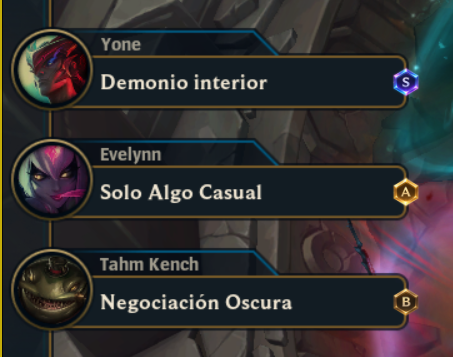
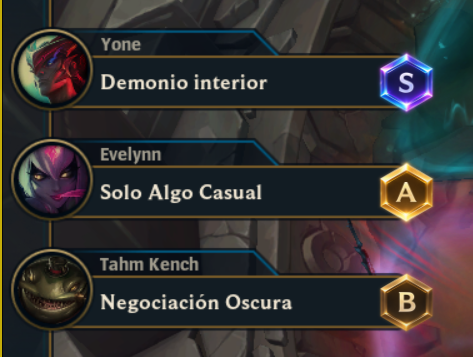
fix(*): fix bugs

diff --git a/tests/Aumentos.Tests/ArenaLegendaryTests.cs b/tests/Aumentos.Tests/ArenaLegendaryTests.cs
@@ -9,7 +9,7 @@ internal static class ArenaLegendaryTests
 {
     private static readonly string[] RellOffer = ["Flautas de Bandle", "Fuerza de la Naturaleza", "Convergencia de Zeke"];
 
-    internal static void Run(Ratings ratings, string assets, string? screenshot)
+    internal static void Run(Ratings ratings, string assets, string? screenshot, string? zyraScreenshot)
     {
         var rell = new GameContext(Mode.Arena, "Rell");
         var offer = new DetectionResult(true, new int?[3], RellOffer, [true, true, true]);
@@ -33,19 +33,39 @@ internal static class ArenaLegendaryTests
             "una carta ilegible conserva los tiers conocidos sin elegir la mejor de toda la oferta");
         CheckSharedChemtechTitle(ratings, assets);
 
+        var zyra = new GameContext(Mode.Arena, "Zyra");
+        var zyraOffer = offer with { Texts = ["Promesa sin Palabras", "Cinturón Cohete Hextech", "Perplejidad"] };
+        CheckZyraOffer(zyraOffer);
         if (screenshot is not null)
         {
-            var image = Diagnostics.OpenBitmap(screenshot);
+            CheckRellOffer(ratings, rell, ReadScreenshot(screenshot));
+            Console.WriteLine("Captura de Rell: Flautas de Bandle S recomendadas · Fuerza de la Naturaleza B · Convergencia de Zeke A.");
+        }
+        if (zyraScreenshot is not null)
+        {
+            CheckZyraOffer(ReadScreenshot(zyraScreenshot));
+            Console.WriteLine("Captura de Zyra: Promesa sin Palabras A · Cinturón Cohete Hextech A · Perplejidad A.");
+        }
+        Console.WriteLine("Tiers de objetos legendarios verificados con afinidad por campeón.");
+
+        DetectionResult ReadScreenshot(string path)
+        {
+            var image = Diagnostics.OpenBitmap(path);
             var layouts = new LayoutStore(Path.Combine(assets, "layouts.json"), "")
                 .Find(Mode.Arena, image.PixelWidth, image.PixelHeight);
             using var detector = new Detection(ratings, Path.Combine(assets, "tessdata"));
-            var read = detector.ReadPanel(image, new Int32Rect(0, 0, image.PixelWidth, image.PixelHeight),
-                layouts, Mode.Arena, previous: null);
-            Check(read is not null, "panel de objetos legendarios en la captura de Rell");
-            CheckRellOffer(ratings, rell, read!.Value.Result);
-            Console.WriteLine("Captura de Rell: Flautas de Bandle S recomendadas · Fuerza de la Naturaleza B · Convergencia de Zeke A.");
+            return detector.ReadPanel(image, new Int32Rect(0, 0, image.PixelWidth, image.PixelHeight),
+                layouts, Mode.Arena, previous: null)?.Result ??
+                throw new InvalidOperationException("No se encontró el panel de objetos legendarios en " + path);
         }
-        Console.WriteLine("Tiers de objetos legendarios verificados con afinidad por campeón.");
+
+        void CheckZyraOffer(DetectionResult read)
+        {
+            Check(ratings.Legendaries.Identify(read)?.Select(item => item?.Id).SequenceEqual([4016, 223152, 4015]) == true &&
+                ratings.Legendaries.ForOffer(zyra, read)?.Select(badge => badge?.Local).SequenceEqual(["A", "A", "A"]) == true &&
+                ratings.Prismatics.Identify(read) is null,
+                $"la oferta de Zyra incluye dos legendarios con IDs originales: {string.Join(" / ", read.Texts)}");
+        }
     }
 
     private static void CheckRellOffer(Ratings ratings, GameContext rell, DetectionResult offer)

diff --git a/src/Aumentos.App/ChampionSelectClient.cs b/src/Aumentos.App/ChampionSelectClient.cs
@@ -28,6 +28,9 @@ internal sealed record ChampionSelectSession(Mode Mode, ChampionSelection? Pick 
 internal sealed class ChampionSelectClient : IDisposable
 {
     private const string SelectionEndpoint = "/lol-champ-select/v1/session";
+    private const int ArenaTriosQueue = 1750;
+    private const int ArenaTrioSize = 3;
+    private const int ArenaTriosLobbySize = 18;
     private readonly X509Certificate2 root;
     private HttpClient? client;
     private string? install;
@@ -133,7 +136,7 @@ internal sealed class ChampionSelectClient : IDisposable
         {
             if (Number(queue, "id") == 2400 || TextIs(queue, "gameMode", "KIWI"))
                 return Mode.Caos;
-            if (Number(queue, "id") is 1700 or 1710 || TextIs(queue, "gameMode", "CHERRY"))
+            if (Number(queue, "id") is 1700 or 1710 or ArenaTriosQueue || TextIs(queue, "gameMode", "CHERRY"))
                 return Mode.Arena;
         }
         if (TextIs(data, "gameMode", "KIWI"))
@@ -209,6 +212,11 @@ internal sealed class ChampionSelectClient : IDisposable
         int localCell = Number(root, "localPlayerCellId");
         int localTeam = own is { } player ? ArenaTeamId(player) : -1;
         int teamSize = own is null ? 0 : 1;
+        var members = Elements(root, "myTeam").Where(member => member.ValueKind == JsonValueKind.Object).ToArray();
+        // Arena 3×6 can report the entire lobby as team 1. In that layout each trio occupies three consecutive cells.
+        bool flatTrios = Number(root, "queueId") == ArenaTriosQueue && members.Length == ArenaTriosLobbySize &&
+            members.All(member => ArenaTeamId(member) == localTeam) &&
+            members.Select(member => Number(member, "cellId")).ToHashSet().SetEquals(Enumerable.Range(0, ArenaTriosLobbySize));
         var actions = DraftActions(root).ToArray();
         var inProgressPicks = new Dictionary<int, int>();
         var completedPicks = new Dictionary<int, int>();
@@ -231,11 +239,13 @@ internal sealed class ChampionSelectClient : IDisposable
         var allySlots = new SortedDictionary<int, int?>();
         var unavailable = new HashSet<int>();
         var enemyCells = new HashSet<int>();
-        foreach (var ally in Elements(root, "myTeam"))
+        foreach (var ally in members)
         {
-            if (ally.ValueKind != JsonValueKind.Object || Number(ally, "cellId") is not (>= 0 and var cell) || cell == localCell)
+            if (Number(ally, "cellId") is not (>= 0 and var cell) || cell == localCell)
                 continue;
-            if (localTeam >= 0 && ArenaTeamId(ally) is >= 0 and var team && team != localTeam)
+            bool rival = flatTrios ? cell / ArenaTrioSize != localCell / ArenaTrioSize
+                : localTeam >= 0 && ArenaTeamId(ally) is >= 0 and var team && team != localTeam;
+            if (rival)
                 AddEnemy(ally);
             else if (own is not null)
             {

diff --git a/src/Aumentos.App/ArenaVoteOverlay.cs b/src/Aumentos.App/ArenaVoteOverlay.cs
@@ -12,9 +12,11 @@ internal sealed record ArenaVoteDisplay(Int32Rect Bounds, nint Target, ArenaVote
 
 internal sealed class ArenaVoteOverlay : Window
 {
+    private const double BadgeHeight = 44;
     private readonly Canvas layer = new() { ClipToBounds = true };
     private ArenaVoteDisplay? displayed;
     private double displayedDpi;
+    private int displayedTierSize;
     private nint handle;
 
     internal ArenaVoteOverlay()
@@ -42,7 +44,7 @@ internal sealed class ArenaVoteOverlay : Window
         };
     }
 
-    internal void Render(ArenaVoteDisplay? view)
+    internal void Render(ArenaVoteDisplay? view, int tierSizePercent = BuildSizePreference.Default)
     {
         if (view is null || view.Labels.Length == 0 || view.Bounds.Width <= 0 || view.Bounds.Height <= 0)
         {
@@ -55,7 +57,8 @@ internal sealed class ArenaVoteOverlay : Window
         // Vote rows are in screen pixels. WPF lays out the badges at the overlay's DPI.
         double dpi = VisualTreeHelper.GetDpi(layer).DpiScaleX;
         var bounds = view.Bounds;
-        if (IsVisible && Native.IsWindowVisible(handle) && displayedDpi == dpi && displayed is { } previous &&
+        if (IsVisible && Native.IsWindowVisible(handle) && displayedDpi == dpi && displayedTierSize == tierSizePercent &&
+            displayed is { } previous &&
             previous.Bounds == bounds && previous.Target == view.Target && previous.Labels.SequenceEqual(view.Labels))
             return;
 
@@ -68,15 +71,16 @@ internal sealed class ArenaVoteOverlay : Window
             return;
         }
 
+        int preferredHeight = (int)Math.Round(BadgeHeight * dpi * tierSizePercent / 100);
         var positions = rows.Select(label =>
         {
             var row = label.Row;
-            int height = Math.Min(row.Height, (int)Math.Round(30 * dpi));
+            int height = Math.Min(row.Height, preferredHeight);
             int width = Math.Min(bounds.Width, (int)Math.Round(height * TierHexagon.ArtworkAspect));
             int left = Math.Clamp(row.X + row.Width - width / 2, 0, bounds.Width - width);
             // The name tab sits above the bordered title. Center the tier on the title's right edge.
             int titleTop = row.Y + row.Height / 3;
-            int top = titleTop + (row.Y + row.Height - titleTop - height) / 2;
+            int top = Math.Clamp(titleTop + (row.Y + row.Height - titleTop - height) / 2, 0, bounds.Height - height);
             return (Label: label, Left: left, Top: top, Width: width, Height: height);
         }).ToArray();
 
@@ -102,6 +106,7 @@ internal sealed class ArenaVoteOverlay : Window
         {
             displayed = view;
             displayedDpi = dpi;
+            displayedTierSize = tierSizePercent;
         }
     }
 

diff --git a/tests/Aumentos.Tests/ArenaChampionSelectionTests.cs b/tests/Aumentos.Tests/ArenaChampionSelectionTests.cs
@@ -87,6 +87,34 @@ internal static class ArenaChampionSelectionTests
         if (!stable.AllySlots.SequenceEqual(new int?[] { null, 61 }))
             throw new InvalidOperationException("El aliado que fija primero su campeón conserva su plaza aunque quede otra vacía.");
 
+        // Reproduce the client's Arena 3×6 layout with Zyra in cell 13, between Olaf and Dr. Mundo.
+        using var trios = JsonDocument.Parse(JsonSerializer.Serialize(new
+        {
+            queueId = 1750,
+            localPlayerCellId = 13,
+            myTeam = Enumerable.Range(0, 18).Select(cell => new
+            {
+                cellId = cell, team = 1, championId = cell switch { 12 => 2, 13 => 143, 14 => 36, _ => 0 }
+            }).Reverse(),
+            theirTeam = Array.Empty<object>(),
+            actions = new[] { new[] { new { actorCellId = 15, type = "pick", championId = 115, completed = true } } },
+            bans = new { theirTeamBans = new[] { 22 } }
+        }));
+        var triosFinal = ChampionSelectClient.ArenaDraftIds(trios.RootElement, confirmedOnly: true);
+        if (triosFinal.Champion != 143 || !triosFinal.ChampionConfirmed || triosFinal.TeamSize != 3 ||
+            !triosFinal.Teammates.ToHashSet().SetEquals([2, 36]) ||
+            !triosFinal.ConfirmedTeammates.ToHashSet().SetEquals([2, 36]) ||
+            !triosFinal.AllySlots.SequenceEqual(new int?[] { 2, 36 }) ||
+            !triosFinal.Unavailable.ToHashSet().SetEquals([22, 115]))
+            throw new InvalidOperationException("Arena 3×6 debe leer el trío local y excluir las elecciones de los otros cinco equipos.");
+
+        using var triosPartial = JsonDocument.Parse(trios.RootElement.GetRawText().Replace(
+            "\"cellId\":12,\"team\":1,\"championId\":2", "\"cellId\":12,\"team\":1,\"championId\":0", StringComparison.Ordinal));
+        var openTrio = ChampionSelectClient.ArenaDraftIds(triosPartial.RootElement);
+        if (openTrio.TeamSize != 3 || !openTrio.ConfirmedTeammates.SequenceEqual([36]) ||
+            !openTrio.AllySlots.SequenceEqual(new int?[] { null, 36 }))
+            throw new InvalidOperationException("Arena 3×6 conserva la plaza propia pendiente y asigna a Dr. Mundo su plaza real.");
+
         Console.WriteLine("Preselección, aliados y bloqueos de Arena verificados sin cambiar los hechizos de ARAM Caos.");
     }
 }

diff --git a/src/Aumentos.App/Detection.cs b/src/Aumentos.App/Detection.cs
@@ -227,10 +227,19 @@ internal sealed class Detection : IDisposable
                         item = true;
                         text = itemTitle;
                     }
-                    else if (RecoverCenteredArenaTitle(image, rect, text, alternative) is { } centered)
+                    else
                     {
-                        candidates = [centered];
-                        text = centered.Name;
+                        var centered = ReadCenteredArenaTitle(image, rect);
+                        if (ratings.IsArenaItem(centered))
+                        {
+                            item = true;
+                            text = centered;
+                        }
+                        else if (RecoverCenteredArenaAugment(centered, text, alternative) is { } augmentFromCenter)
+                        {
+                            candidates = [augmentFromCenter];
+                            text = augmentFromCenter.Name;
+                        }
                     }
                 }
                 var card = candidates is [var unique] ? unique : null;
@@ -285,12 +294,17 @@ internal sealed class Detection : IDisposable
         return new DetectionResult(true, ids, texts, items, shards, upgrades);
     }
 
-    private Augment? RecoverCenteredArenaTitle(BitmapSource image, Int32Rect title, string first, string second)
+    private string ReadCenteredArenaTitle(BitmapSource image, Int32Rect title)
     {
         // A bright card frame can look like stray characters beside a short, centered title.
         int inset = title.Width / 10;
         var middle = new Int32Rect(title.X + inset, title.Y, title.Width - inset * 2, title.Height);
-        var text = Ratings.Normalize(ReadTitle(image, middle, PageSegMode.SingleLine, minimumScale: 2));
+        return ReadTitle(image, middle, PageSegMode.SingleLine, minimumScale: 2);
+    }
+
+    private Augment? RecoverCenteredArenaAugment(string centered, string first, string second)
+    {
+        var text = Ratings.Normalize(centered);
         if (text.Length < 5 || text.Contains(' ') || ratings.Recognize(Mode.Arena, text) is not { } card ||
             Ratings.Normalize(card.Name) != text)
             return null;

diff --git a/tests/Aumentos.Tests/ArenaVoteOverlayTests.cs b/tests/Aumentos.Tests/ArenaVoteOverlayTests.cs
@@ -30,6 +30,12 @@ internal static class ArenaVoteOverlayTests
                 "la votación muestra la misma insignia hexagonal que las cartas y la selección");
             Check((Native.GetWindowLongW(handle, -20) & 0x08000020) == 0x08000020 && !overlay.IsHitTestVisible,
                 "la ventana no se activa ni intercepta clics");
+            double defaultHeight = ((TierHexagon)layer.Children[0]).ActualHeight;
+            Check(defaultHeight > 30, "la insignia de votación es más grande con el tamaño predeterminado");
+            CheckPlacement(full, 250);
+            double enlargedHeight = ((TierHexagon)layer.Children[0]).ActualHeight;
+            Check(enlargedHeight > defaultHeight && enlargedHeight * dpi <= labels[0].Row.Height + 1,
+                "el tamaño guardado agranda una votación abierta dentro del espacio disponible");
 
             unawareTarget = CreateDpiUnawareWindow();
             Check(Native.GetDpiForWindow(unawareTarget) == 96, "la ventana de prueba simula la escala de League");
@@ -43,7 +49,7 @@ internal static class ArenaVoteOverlayTests
                     Row = new(label.Row.X / 2, label.Row.Y / 2, label.Row.Width / 2, label.Row.Height / 2)
                 }).ToArray()
             };
-            CheckPlacement(compact);
+            CheckPlacement(compact, Overlay.TierSizeMaximum);
 
             overlay.Render(null);
             Check(!Native.IsWindowVisible(handle), "se oculta al terminar la votación");
@@ -51,9 +57,9 @@ internal static class ArenaVoteOverlayTests
             overlay.Render(compact with { Labels = [new(new(1250, 540, 40, 40), "S")] });
             Check(!Native.IsWindowVisible(handle), "omite las posiciones inválidas sin cubrir la interfaz");
 
-            void CheckPlacement(ArenaVoteDisplay view)
+            void CheckPlacement(ArenaVoteDisplay view, int percent = BuildSizePreference.Default)
             {
-                overlay.Render(view);
+                overlay.Render(view, percent);
                 Dispatcher.CurrentDispatcher.Invoke(() => { }, DispatcherPriority.ApplicationIdle);
                 var placement = Native.Bounds(handle);
                 int x = placement.X - view.Bounds.X;

diff --git a/tests/Aumentos.Tests/ChampionSelectTests.cs b/tests/Aumentos.Tests/ChampionSelectTests.cs
@@ -19,12 +19,14 @@ internal static class ChampionSelectTests
         using var normalAram = JsonDocument.Parse("""{"phase":"ChampSelect","gameData":{"queue":{"id":450}}}""");
         using var otherMayhem = JsonDocument.Parse("""{"phase":"ChampSelect","gameData":{"gameMode":"KIWI"}}""");
         using var arena = JsonDocument.Parse("""{"phase":"ChampSelect","gameData":{"queue":{"id":1710}}}""");
+        using var arenaTrios = JsonDocument.Parse("""{"phase":"ChampSelect","gameData":{"queue":{"id":1750}}}""");
         using var otherArena = JsonDocument.Parse("""{"phase":"ChampSelect","gameData":{"queue":{"gameMode":"CHERRY"}}}""");
         Check(ChampionSelectClient.SelectMode(lobby.RootElement) == Mode.Caos &&
             ChampionSelectClient.SelectMode(started.RootElement) is null &&
             ChampionSelectClient.SelectMode(normalAram.RootElement) is null &&
             ChampionSelectClient.SelectMode(otherMayhem.RootElement) == Mode.Caos &&
             ChampionSelectClient.SelectMode(arena.RootElement) == Mode.Arena &&
+            ChampionSelectClient.SelectMode(arenaTrios.RootElement) == Mode.Arena &&
             ChampionSelectClient.SelectMode(otherArena.RootElement) == Mode.Arena, "fase y colas de selección");
 
         using var selection = JsonDocument.Parse("""

diff --git a/tests/Aumentos.Tests/Program.cs b/tests/Aumentos.Tests/Program.cs
@@ -50,7 +50,7 @@ internal static class Program
             Console.WriteLine("Captura de Aurelion Sol: Tirador Mágico, Hora del Slime y Poder Mejorado reconocidos.");
         }
         StatShardTests.Run(ratings, assets, Option("--arena-shard-shot"));
-        ArenaLegendaryTests.Run(ratings, assets, Option("--arena-legendary-shot"));
+        ArenaLegendaryTests.Run(ratings, assets, Option("--arena-legendary-shot"), Option("--arena-legendary-zyra-shot"));
         BuildTests.Run(ratings).GetAwaiter().GetResult();
         MayhemBuildTests.Run(ratings, assets);
         ShopItemStatsTests.Run(ratings.Catalog);

diff --git a/src/Aumentos.App/Program.cs b/src/Aumentos.App/Program.cs
@@ -203,7 +203,7 @@ internal static class Program
                 builds, shopItems, assets, app.Dispatcher, state =>
             {
                 overlay.Render(state);
-                arenaVoteOverlay.Render(state.ArenaVote);
+                arenaVoteOverlay.Render(state.ArenaVote, overlay.TierSizePercent);
                 var info = $"{state.Status} · {(overlay.IsVisible || arenaVoteOverlay.IsVisible ? "Overlay visible" : "Overlay oculto")}";
                 if (info != previous)
                 {

diff --git a/evidencias/overlays/README.md b/evidencias/overlays/README.md
@@ -1,6 +1,6 @@
 # Capturas de los overlays
 
-**Parche 26.23 · 24 de noviembre de 2026.** Estas capturas muestran el estilo de la compilación instalada de Aumentos LoL. Se reprodujeron las ofertas y tiendas con capturas de League, las tablas del parche y equipos e inventarios de ejemplo. Los tiers en partida están al **250 %**, el ajuste de tiers en selección de campeón al **200 %**, las builds al **150 %** y el panel de prismáticos al **150 %**. En este equipo se usaron Cambria y Segoe UI.
+**Parche 26.23 · Actualizado el 25 de noviembre de 2026.** Las ofertas y tiendas se reprodujeron con capturas de League, las tablas del parche y equipos e inventarios de ejemplo. El trío de Zyra, Olaf y Dr. Mundo se reprodujo con el registro de selección del cliente. Los tiers en partida están al **250 %**, el ajuste de tiers en selección de campeón al **200 %**, las builds al **150 %** y el panel de prismáticos al **150 %**. En este equipo se usaron Cambria y Segoe UI.
 
 [![Las siete insignias desde S+ prismático hasta E grafito, al 250 % y al 100 %](paleta-de-tiers.png)](paleta-de-tiers.png)
 
@@ -16,7 +16,7 @@
 | --- | --- |
 | ARAM Caos | [Oferta de tres campeones y sugerencias para el equipo](aram-seleccion-tres-cartas.png) · [Oferta de dos con una carta ampliada](aram-seleccion-dos-cartas.png) |
 | ARAM Caos | [Banco con tiers centrados en el borde inferior de los retratos](aram-seleccion-banco.png) · [Hechizos principales y alternativos de Gragas](aram-hechizos.png) |
-| Arena | [Composición, estado de cada elección, sugerencias y Top 30 completo](arena-seleccion-top-30.png) |
+| Arena | [Composición, estado de cada elección, sugerencias y Top 30 completo](arena-seleccion-top-30.png) · [Zyra, Olaf y Dr. Mundo confirmados](arena-seleccion-equipo-completo.png) |
 
 ## Tiers en partida
 
@@ -24,8 +24,8 @@
 | --- | --- | --- |
 | Aumentos | [Cuatro cartas](aram-aumentos-cuatro.png) · [Tres cartas, una sin tier](aram-aumentos-tres.png) | [Tres aumentos](arena-aumentos.png) · [Mejoras de nivel](arena-mejoras.png) |
 | Yunque de estadísticas | [Tiers de los fragmentos](aram-fragmentos-yunque.png) | [Tiers de los fragmentos](arena-fragmentos-yunque.png) |
-| Ofertas de objetos | — | [Legendarios](arena-legendarios.png) · [Prismáticos con tier sobre cada carta y Top 5 al lado](arena-prismaticos-top-5.png) |
-| Invitados de Honor | — | [Tres opciones de voto con tiers junto al título](arena-invitados-de-honor.png) |
+| Ofertas de objetos | — | [Legendarios con Rell](arena-legendarios.png) · [Legendarios con Zyra](arena-legendarios-zyra.png) · [Prismáticos con tier sobre cada carta y Top 5 al lado](arena-prismaticos-top-5.png) |
+| Invitados de Honor | — | [Tres opciones de voto con tiers ampliados junto al título](arena-invitados-de-honor.png) |
 
 ## Builds y tienda
 
